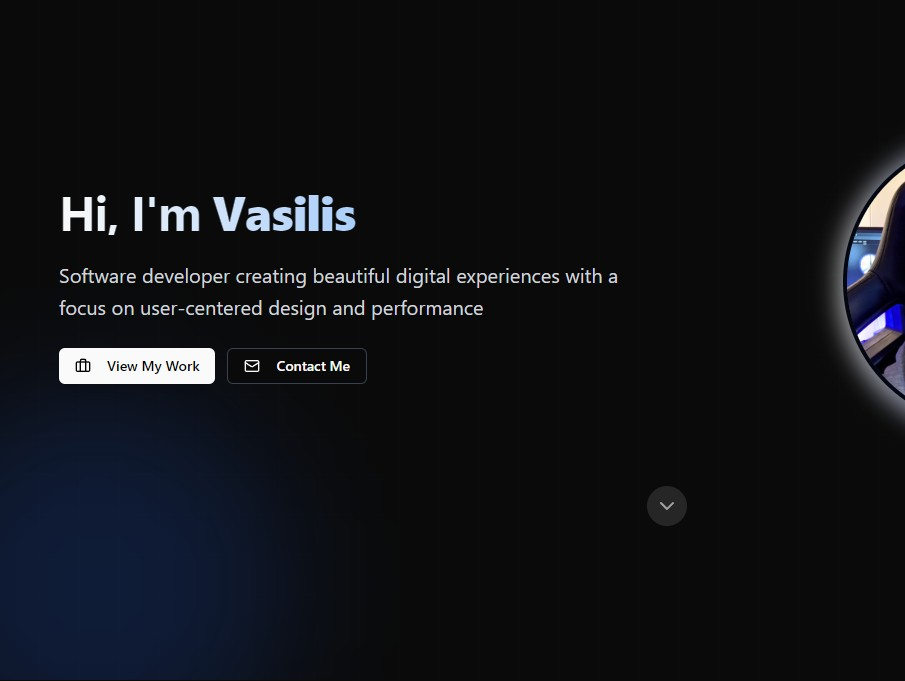
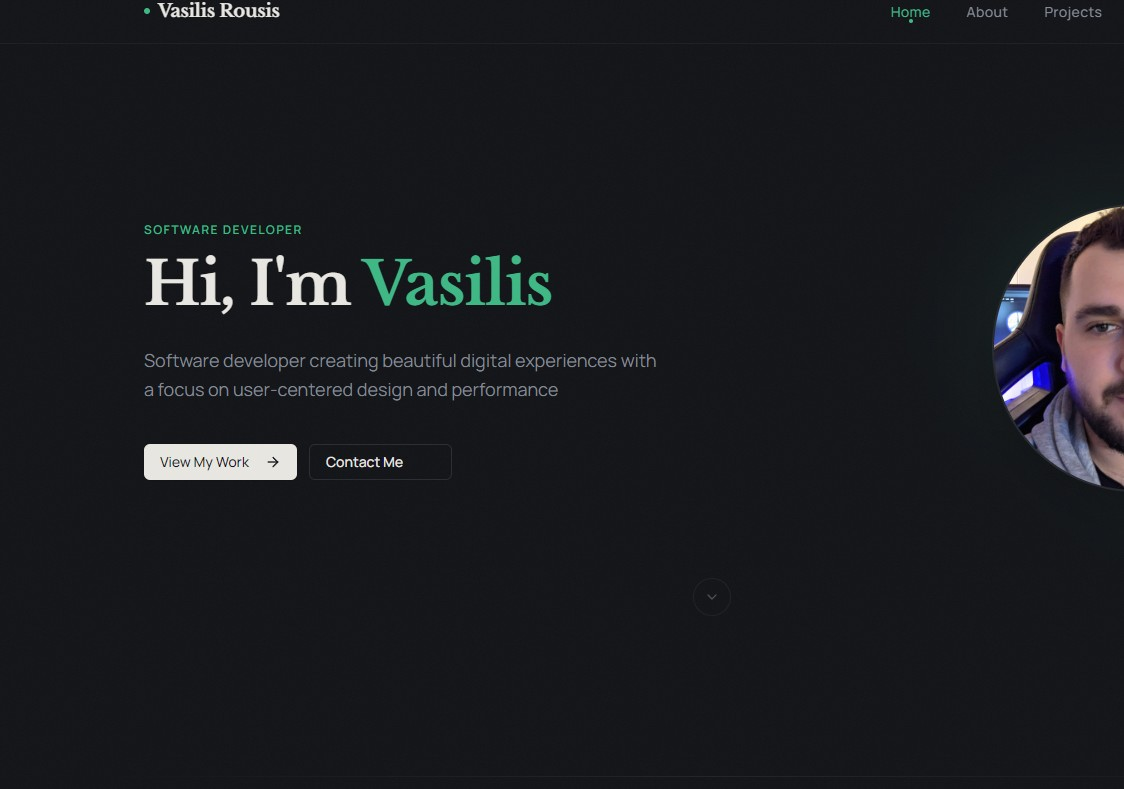
Minor UI fixes

diff --git a/pages/index.vue b/pages/index.vue
@@ -74,9 +74,8 @@
                   height="288"
                   loading="eager"
                   fetchpriority="high"
-                  class="ml-4 mt-4"
+                  class="object-cover"
                 />
-                <AvatarFallback class="bg-muted font-display text-2xl">VR</AvatarFallback>
               </Avatar>
             </div>
           </div>
@@ -127,7 +126,7 @@
                   format="webp"
                   placeholder
                   loading="lazy"
-                  class="object-cover w-full h-full group-hover:scale-105 transition-transform duration-700"
+                  class="object-cover w-full h-full scale-110 group-hover:scale-115 transition-transform duration-700"
                 />
                 <div
                   class="absolute inset-x-0 bottom-0 h-20 bg-gradient-to-t from-black/60 to-transparent"

diff --git a/pages/projects.vue b/pages/projects.vue
@@ -57,7 +57,7 @@
                     format="webp"
                     placeholder
                     loading="lazy"
-                    class="object-cover w-full h-full group-hover:scale-105 transition-transform duration-700"
+                    class="object-cover w-full h-full scale-110 group-hover:scale-115 transition-transform duration-700"
                   />
                   <div
                     class="absolute inset-x-0 bottom-0 h-20 bg-gradient-to-t from-black/60 to-transparent"
